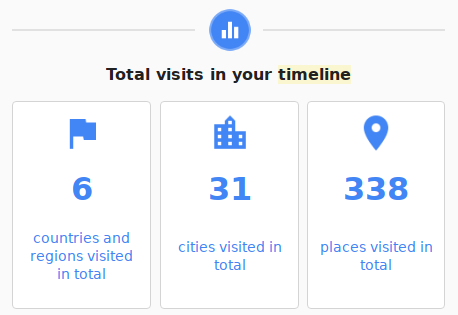
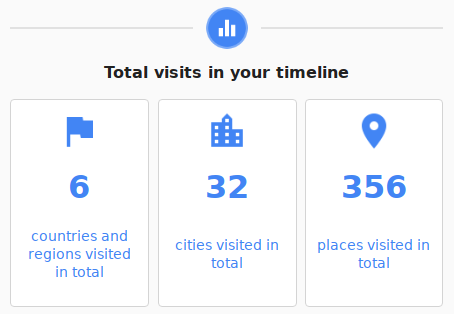
Add a new stats post for May 2017.
Now it's finished and ready to be published

diff --git a/content/post/stats-may-2017.md b/content/post/stats-may-2017.md
@@ -8,16 +8,15 @@ Here we go again for my stats for the last month. :)
 
 ### Books
 
-Books for this month:
-
 [![List of books read this month](/images/stats/2017/may/goodreads.png "List of books read this month")](https://www.goodreads.com/pothix "")
 
-I will start a in a new company this month, so I decided to re-read
-**Deep Work** this month. This book is just great for everyone who
-wants to focus and do the hard work. I has everything to do with my
-new work schedule. The book about Elon Musk was a good reading as
-well, he has really great ideas. Both books were "read" using
-audiobooks by [Audible](https://audible.com).
+I will start a in a new company this month, so I decided to
+re-read [Deep Work](http://amzn.to/2sNBJQs) (I really recommend this
+one). This book is just great for everyone who wants to focus and do
+the hard work. It has everything to do with my new work
+schedule. The [book about Elon Musk](http://amzn.to/2r1nCG0) was a
+good reading as well, this guy has some great ideas. Both books were
+"read" using audiobooks by [Audible](https://audible.com).
 
 ### Articles
 
@@ -35,7 +34,7 @@ for(var i=0; i<uls.length; i++) {
 It means I have **861 articles Unread** and **662 articles
 Read**. Comparing with my results from the last month, I got almost
 **5% more unread articles**, but this time I got almost **10% more
-read articles** (the double of the last month amount). It happened
+read articles** (double of the last month's). It happened
 because I took some hours to read the some articles of my Pocket
 account.
 
@@ -149,12 +148,6 @@ met your mother** marathon. The other episodes are a combination of **Better cal
 
 I spent almost 1 day of my life watching TV Series this month.
 
-### Locations
-
-This month I visited 13 more places (the last month were **325 places**):
-
-[![General view of my locations data](/images/stats/2017/may/location-general.png "General view of my locations data")](/images/stats/2017/may/location-general.png "")
-
 ### Words written and errors
 
 I'm using [Grammarly](https://grammarly.com) to improve my English and
@@ -167,7 +160,13 @@ Anyways, here are my stats for this month:
 + **11478** unique words
 
 I decided to remove my "common mistakes" from this report because the
-data was not reliable.
+data seems to be not reliable.
+
+### Locations
+
+This month I visited 18 new places (the last month were **338 places**) and 1 new city:
+
+[![General view of my locations data](/images/stats/2017/may/location-general.png "General view of my locations data")](/images/stats/2017/may/location-general.png "")
 
 ### Expenses
 
@@ -176,9 +175,9 @@ My expenses for this month:
 [![Expenses by category this month](/images/stats/2017/may/expenses.jpg "Expenses by category this month")](/images/stats/2017/may/expenses.jpg "")
 
 This chart **represent only 47% of net income**, the rest is being
-invested. Just like last month, this was atypical as well. I received
-the money related to my freelance work on January and March and this
-month I had to pay the taxes related to it.
+invested. Just like last month, this was atypical as well. Last month
+I received the money related to my freelance work on January and March
+and now I had to pay the taxes related to it.
 
 This month increased my total savings by **1%**.
 I have **68.83%** of my goal.
@@ -188,15 +187,20 @@ I have **68.83%** of my goal.
 Some people are asking me about how much time it take to collect all
 the data and write the blog post, so I decided to add this metric.
 
-I'm spending no to collect the data, most part of it is automatic. The
-services that require manual interaction are already part of my
-day-to-day life, so I'm not tracking it.
+I'm spending almost no time to collect the data, most part of it is
+automatic. The services that require manual interaction are already
+part of my day-to-day life, so I'm not tracking it.
 
-**It took 2 hours and 11 minutes to write it**
+**It took 2 hours and 30 minutes to write this post**
 
 ### Conclusion
 
-It was not so nice to be sick, as expected. My productivity dropped a
-little bit and I have to go to the doctor this month and look for it.
+This month was better than the last one. It was not so good as I
+expected because I had to do some exams to be sure I'm OK and I was
+also changing jobs. I was working for the same company for the last 7
+years and decide to try something else, but this is a subject for a
+different post. ;)
 
-Hope to be in a good health next month. :)
+I got two weeks to "relax" (cof... work on some personal
+projects... cof), so I don't know exactly how the next month will
+be. Let's wait for the next post! :)
